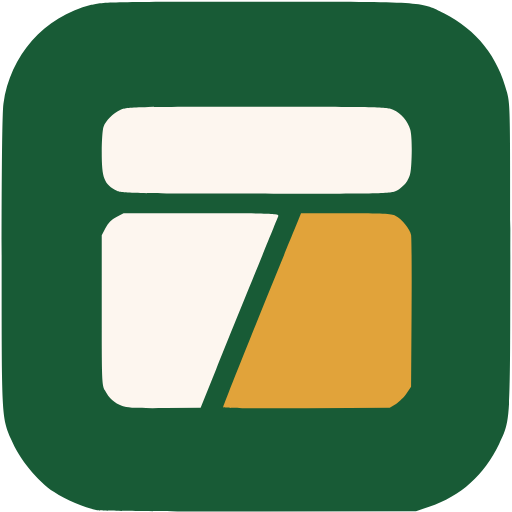
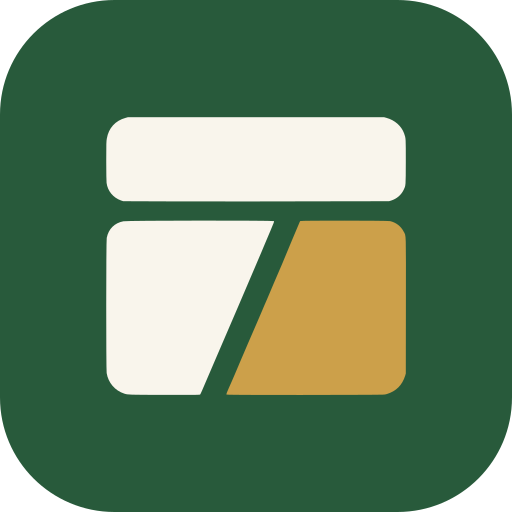
TENPO/START のアイコンを TENPO/OS と同じ形・大きさにそろえる
OS のアイコン（app/office/icons/icon.svg）の印をそのまま使い、
地と印の色だけ入れ替えた（地 #285a3b・印 #f9f5ec・金 #cca04a）。
古いアイコンが残らないよう、読み込みに ?v=1126 を付けた。

Claude-Session: https://claude.ai/code/session_01G4eqNm5HXGvydWMwsFgFZc

diff --git a/tenpo-start/plan/index.html b/tenpo-start/plan/index.html
@@ -3,8 +3,8 @@
 <head>
 <meta charset="utf-8">
 <meta name="description" content="お店を始める人の、無料の開業支援。答えから最初の計画ができ、次に確かめることが1つずつ分かります。">
-<link rel="icon" type="image/svg+xml" href="./icon.svg">
-<link rel="apple-touch-icon" href="./apple-touch-icon.png">
+<link rel="icon" type="image/svg+xml" href="./icon.svg?v=1126">
+<link rel="apple-touch-icon" href="./apple-touch-icon.png?v=1126">
 <link rel="canonical" href="https://start.tenpo-os.com/">
 <link rel="manifest" href="./manifest.webmanifest">
 <meta name="apple-mobile-web-app-title" content="TENPO/START">
